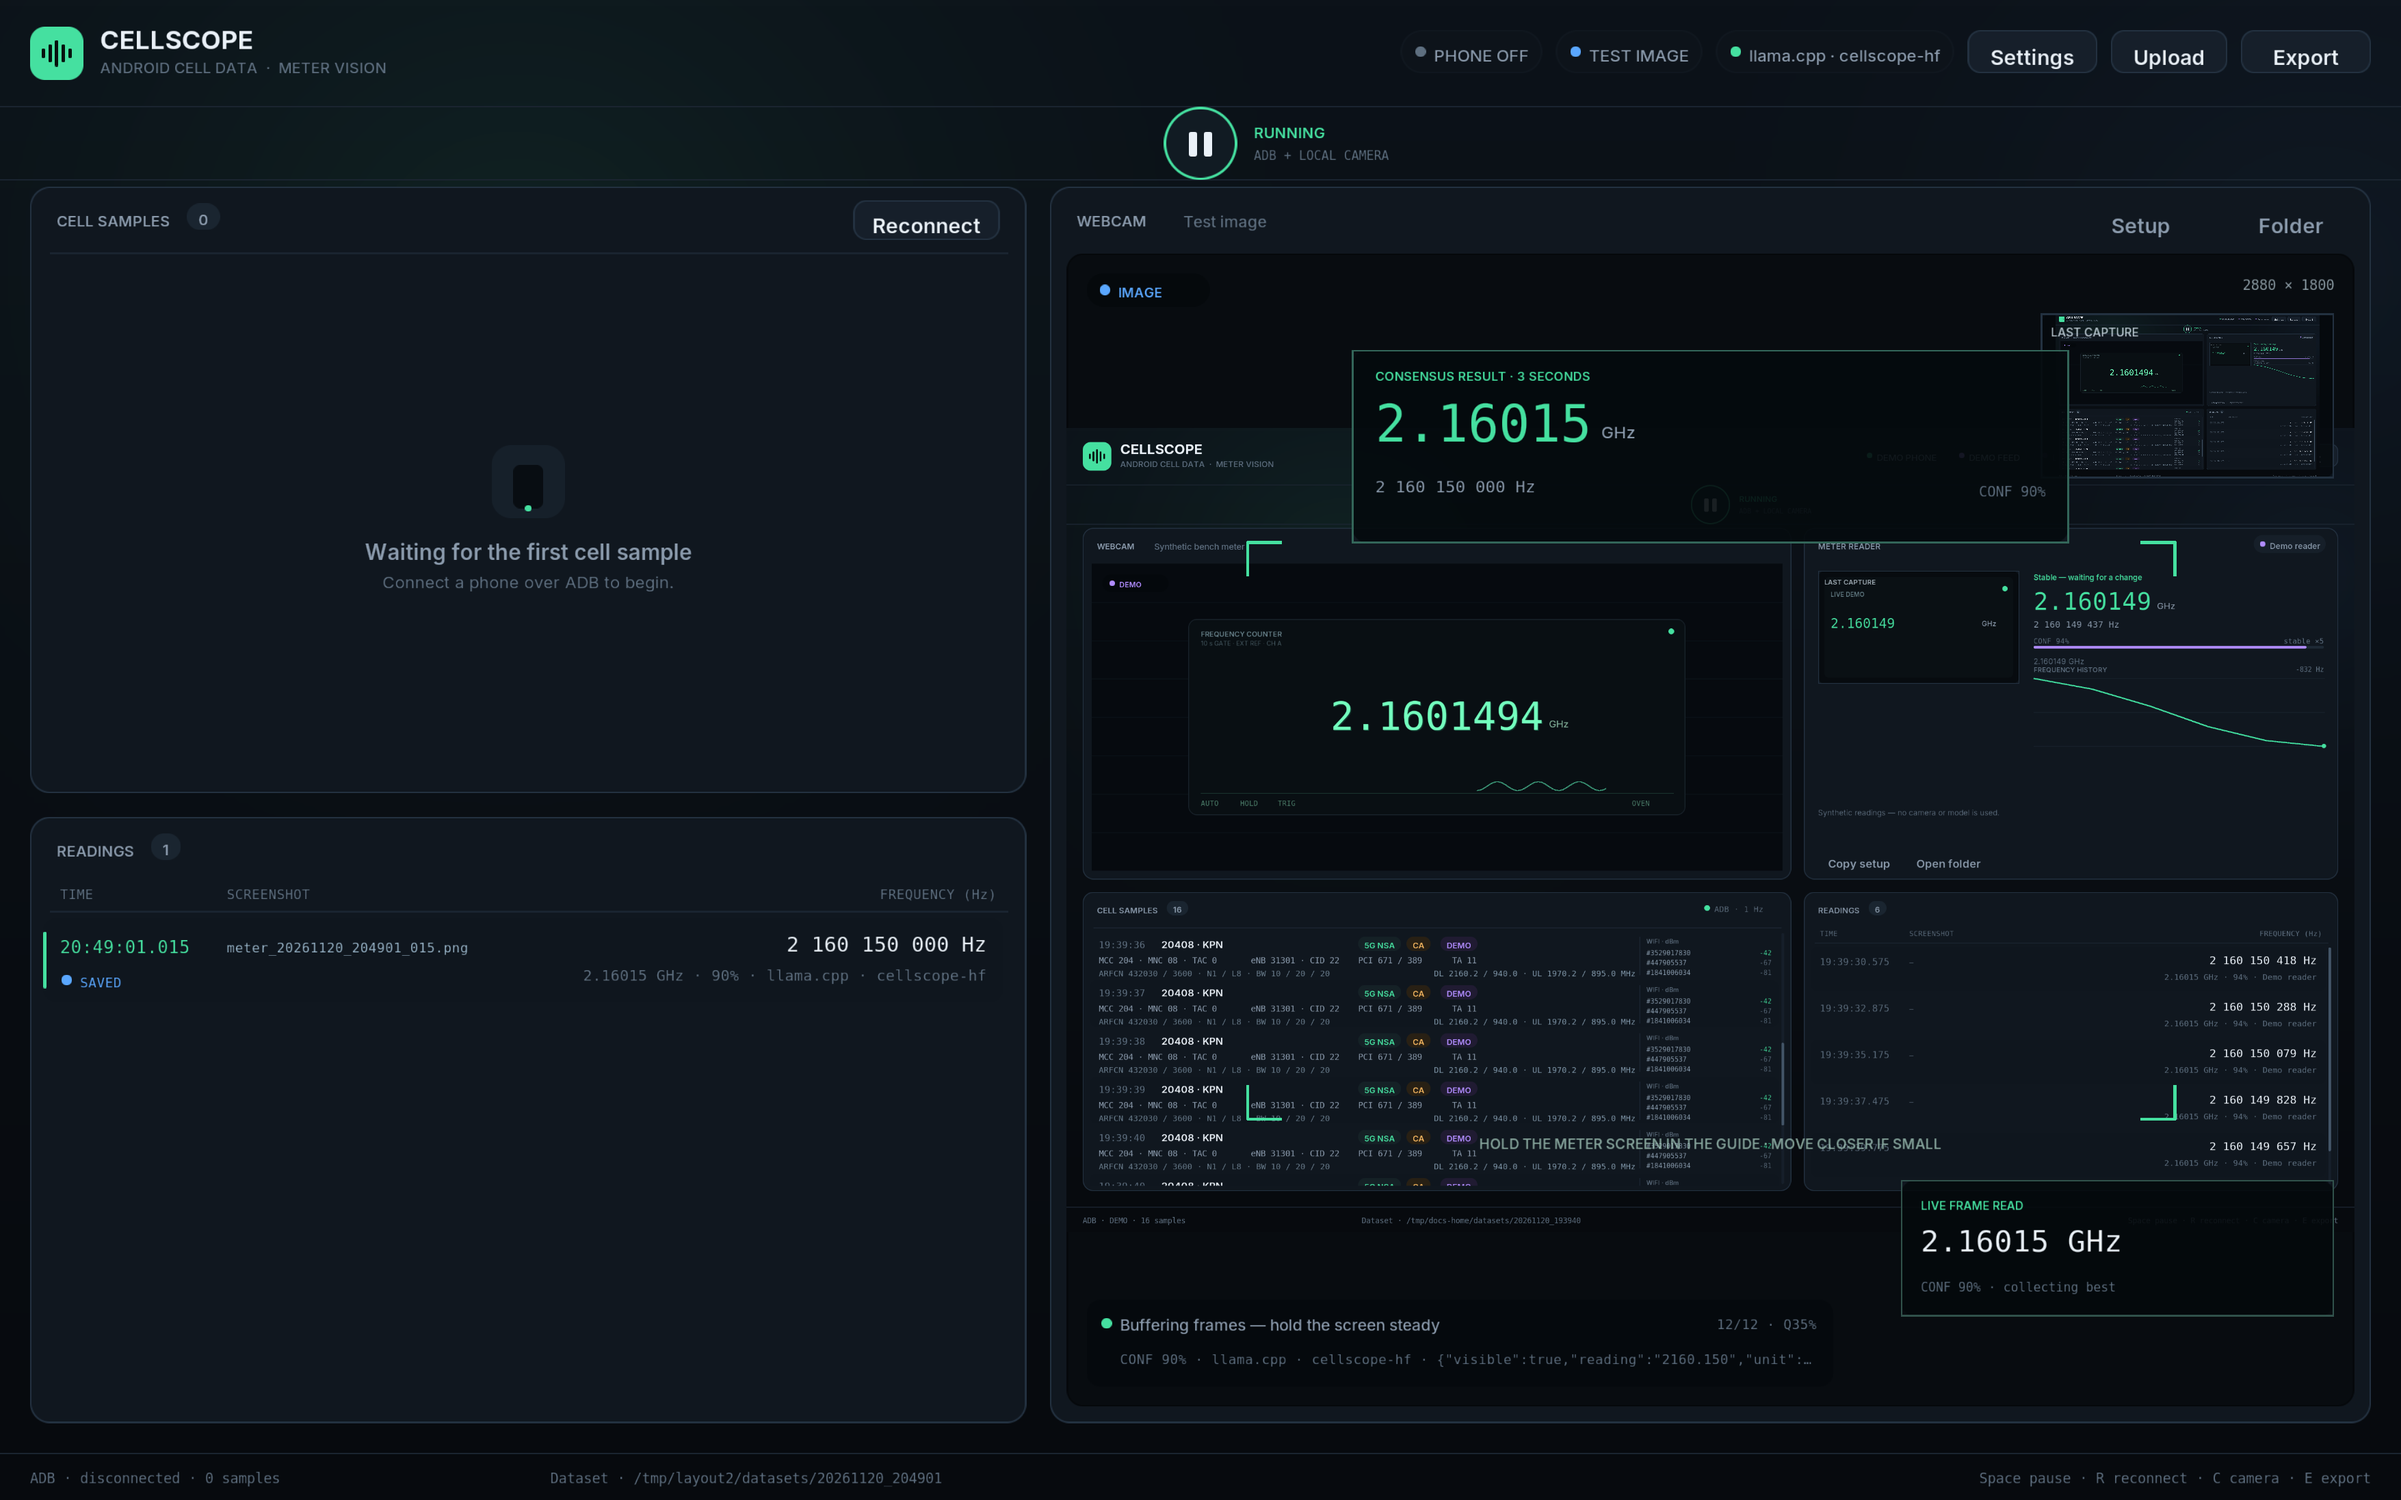
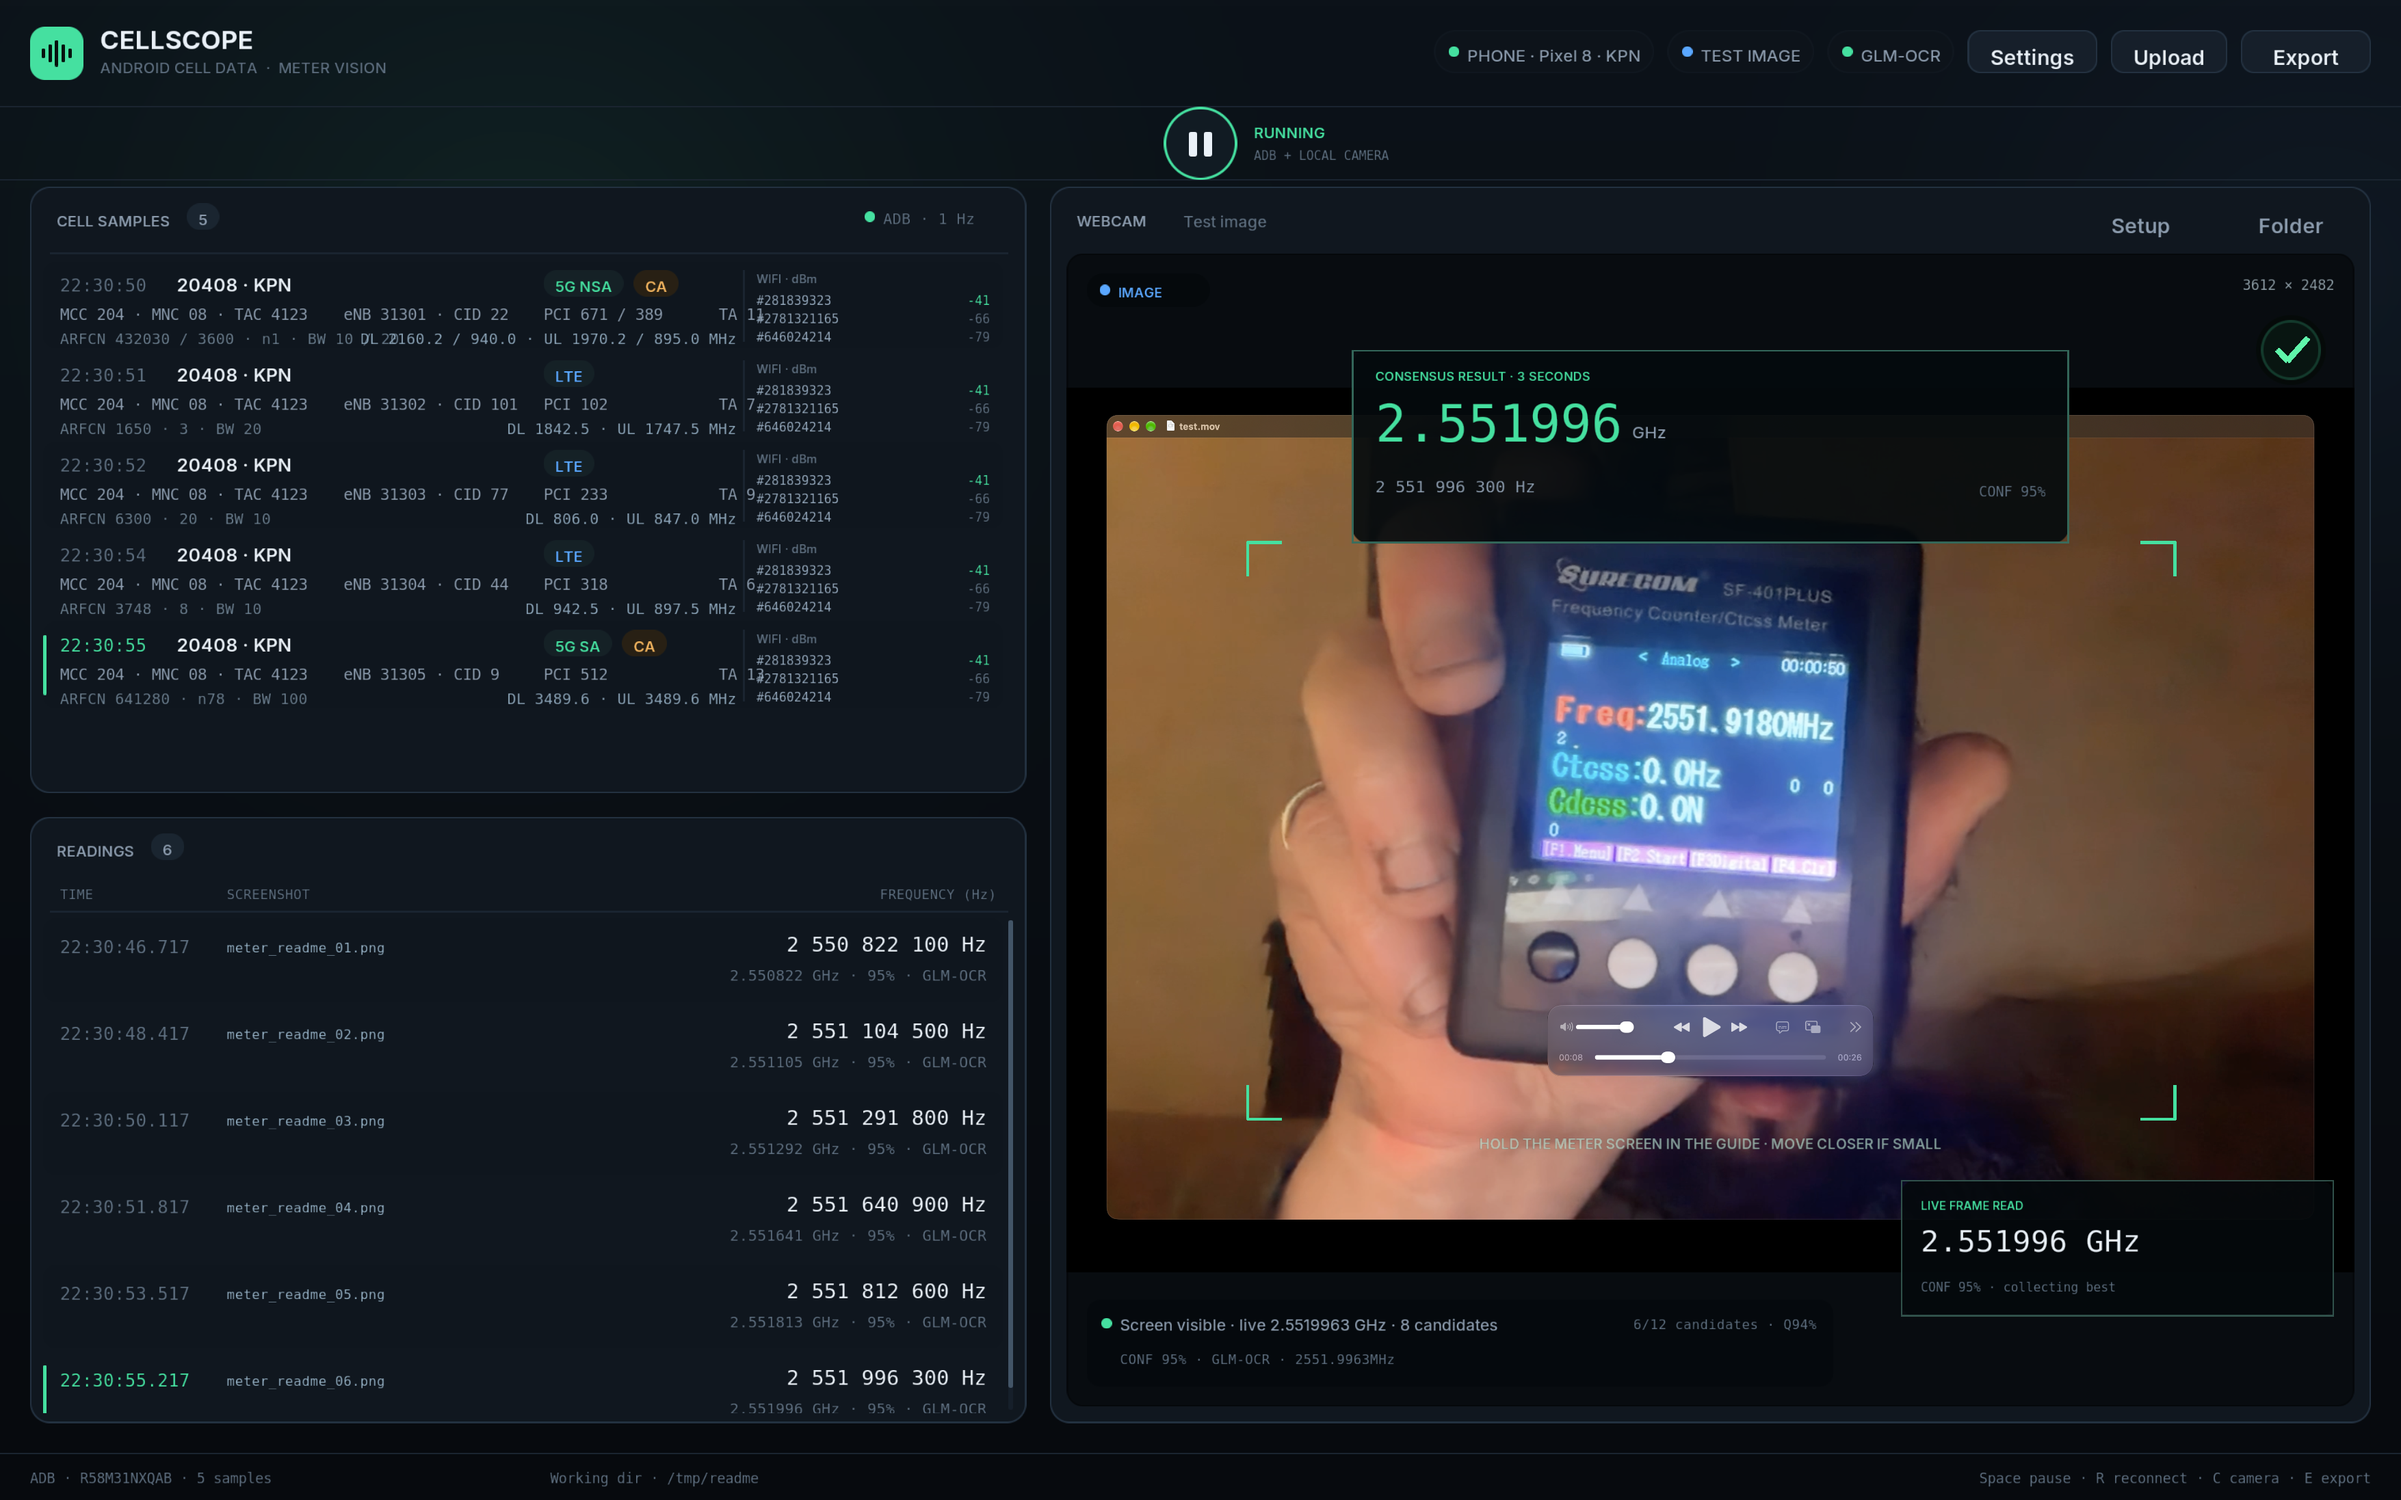
Render README screenshots from deterministic fixture
- add a README-only fixture mode with a connected Pixel 8 ADB state
- seed five cells covering n1, 3, 20, 8 and n78
- seed six meter readings from 2550.8221 to 2551.9963 MHz
- use example.png as the webcam image and keep UI overlays in the control layer
- regenerate main, live-reading, and best-result screenshots

diff --git a/src/app.c b/src/app.c
@@ -438,6 +438,7 @@ void app_print_usage(void)
         "  --demo                 Synthetic phone + synthetic meter feed (no hardware)\n"
         "  --autoplay             Start capture immediately (default: wait for play)\n"
         "  --demo-phone           Synthetic cell samples only\n"
+        "  --readme-fixture MODE  README screenshot fixture: main, live, best\n"
         "  --image PATH           Use a still image instead of a webcam (testing)\n"
         "  --export-json PATH     Write both lists to JSON and exit (testing/automation)\n"
         "  --download-model REPO  Download a Hugging Face VLM and make it the reader\n"
@@ -599,6 +600,12 @@ AppArgsResult app_parse_args(App *app, int argc, char **argv, char *err, size_t 
             app->demo_phone = true;
         } else if (strcmp(a, "--demo-phone") == 0) {
             app->demo_phone = true;
+        } else if (strcmp(a, "--readme-fixture") == 0 && i + 1 < argc) {
+            const char *mode = argv[++i];
+            app->readme_fixture = true;
+            app->readme_fixture_mode = strcmp(mode, "live") == 0 ? 2
+                                     : strcmp(mode, "best") == 0 ? 3
+                                                                 : 1;
         } else if (strcmp(a, "--autoplay") == 0) {
             app->autoplay = true;
         } else if (strcmp(a, "--no-modal") == 0) {
@@ -671,6 +678,15 @@ AppArgsResult app_parse_args(App *app, int argc, char **argv, char *err, size_t 
             return APP_ARGS_ERROR;
         }
         return APP_ARGS_OK;
+    }
+    if (app->readme_fixture) {
+        app->demo = false;
+        app->demo_phone = false;
+        app->image_mode = true;
+        app->no_modal = true;
+        app->no_runtime = true;
+        if (!app->image_path[0])
+            cs_strlcpy(app->image_path, "example.png", sizeof(app->image_path));
     }
     if (app->demo || app->demo_phone) {
         if (app->demo_phone && app->image_mode) app->image_mode = false;
@@ -812,6 +828,126 @@ void app_seed_demo(App *app)
     SDL_UnlockMutex(app->mu);
 }
 
+static void readme_fixture_seed(App *app)
+{
+    int64_t now = cs_epoch_ms();
+    struct CellFixture {
+        const char *band, *rat, *enb, *cid, *pci, *ta, *arfcn, *bw, *dl, *ul;
+        bool ca;
+    } cells[] = {
+        {"n1", "5G NSA", "31301", "22", "671 / 389", "11", "432030 / 3600",
+         "10 / 20", "2160.2 / 940.0", "1970.2 / 895.0", true},
+        {"3", "LTE", "31302", "101", "102", "7", "1650", "20", "1842.5",
+         "1747.5", false},
+        {"20", "LTE", "31303", "77", "233", "9", "6300", "10", "806.0", "847.0",
+         false},
+        {"8", "LTE", "31304", "44", "318", "6", "3748", "10", "942.5", "897.5",
+         false},
+        {"n78", "5G SA", "31305", "9", "512", "13", "641280", "100", "3489.6",
+         "3489.6", true},
+    };
+    static const double meters[] = {
+        2550.8221, 2551.1045, 2551.2918,
+        2551.6409, 2551.8126, 2551.9963,
+    };
+
+    SDL_LockMutex(app->mu);
+    app->adb.state = ADB_STATE_CONNECTED;
+    app->adb.attempted = true;
+    app->adb.device_count = 1;
+    cs_strlcpy(app->adb.serial, "R58M31NXQAB", sizeof(app->adb.serial));
+    cs_strlcpy(app->adb.model, "Pixel 8", sizeof(app->adb.model));
+    cs_strlcpy(app->adb.detail, "ADB · USB · authorized", sizeof(app->adb.detail));
+    app->adb.hint[0] = '\0';
+    app->adb.last_check_ms = now;
+    app->ever_connected = true;
+    app->modal_checking = false;
+    app->last_poll_ok_ms = cs_now_ms();
+    cs_strlcpy(app->device_label, "Pixel 8 · KPN", sizeof(app->device_label));
+
+    for (int i = 0; i < 5; i++) {
+        CellSample c;
+        memset(&c, 0, sizeof(c));
+        c.ts_ms = now - (int64_t)(4 - i) * 1200;
+        cs_strlcpy(c.plmn, "20408", sizeof(c.plmn));
+        cs_strlcpy(c.mcc, "204", sizeof(c.mcc));
+        cs_strlcpy(c.mnc, "08", sizeof(c.mnc));
+        cs_strlcpy(c.country, "Netherlands", sizeof(c.country));
+        cs_strlcpy(c.operator_name, "KPN", sizeof(c.operator_name));
+        cs_strlcpy(c.tac, "4123", sizeof(c.tac));
+        cs_strlcpy(c.rat, cells[i].rat, sizeof(c.rat));
+        cs_strlcpy(c.enb, cells[i].enb, sizeof(c.enb));
+        cs_strlcpy(c.cid, cells[i].cid, sizeof(c.cid));
+        cs_strlcpy(c.pci, cells[i].pci, sizeof(c.pci));
+        cs_strlcpy(c.ta, cells[i].ta, sizeof(c.ta));
+        cs_strlcpy(c.arfcn, cells[i].arfcn, sizeof(c.arfcn));
+        cs_strlcpy(c.band, cells[i].band, sizeof(c.band));
+        cs_strlcpy(c.bw, cells[i].bw, sizeof(c.bw));
+        c.ca = cells[i].ca;
+        cs_strlcpy(c.f_dl, cells[i].dl, sizeof(c.f_dl));
+        cs_strlcpy(c.f_ul, cells[i].ul, sizeof(c.f_ul));
+        WifiAp aps[3];
+        aps[0].id = wifi_anonymize("cellscope-readme-home", 0x52454144);
+        aps[0].rssi = -41;
+        aps[1].id = wifi_anonymize("cellscope-readme-neighbour", 0x52454144);
+        aps[1].rssi = -66;
+        aps[2].id = wifi_anonymize("cellscope-readme-cafe", 0x52454144);
+        aps[2].rssi = -79;
+        wifi_format(aps, 3, c.wifi, sizeof(c.wifi));
+        cs_strlcpy(c.source, "Pixel 8", sizeof(c.source));
+        cell_push_locked(app, &c);
+    }
+
+    for (int i = 0; i < (int)CS_ARRAY_LEN(meters); i++) {
+        MeterSample m;
+        memset(&m, 0, sizeof(m));
+        m.ts_ms = now - (int64_t)(CS_ARRAY_LEN(meters) - 1 - i) * 1700;
+        cs_format_time_ms(m.ts_ms, m.time_text, sizeof(m.time_text));
+        m.hz = (uint64_t)(meters[i] * 1e6 + 0.5);
+        m.confidence = 0.95;
+        snprintf(m.raw, sizeof(m.raw), "%.4fMHz", meters[i]);
+        cs_strlcpy(m.backend, "GLM-OCR", sizeof(m.backend));
+        snprintf(m.shot_name, sizeof(m.shot_name), "meter_readme_%02d.png", i + 1);
+        meter_push_locked(app, &m);
+    }
+
+    double latest = meters[CS_ARRAY_LEN(meters) - 1];
+    app->reader.screen_visible = app->readme_fixture_mode == 3 ? false : true;
+    app->reader.visible = app->readme_fixture_mode == 2 ? false : true;
+    app->reader.live_valid = app->readme_fixture_mode != 3;
+    app->reader.hz = latest * 1e6;
+    app->reader.confidence = 0.95;
+    app->reader.live_hz = latest * 1e6;
+    app->reader.live_confidence = 0.95;
+    app->reader.live_ms = now;
+    app->reader.display_until_ms = app->reader.visible ? now + 300000 : 0;
+    app->reader.burst_count = 6;
+    app->reader.best_score = 0.94f;
+    app->reader.frame_w = 1620;
+    app->reader.frame_h = 1080;
+    app->reader.last_ok_ms = now;
+    app->reader.attempts = 6;
+    app->reader.accepted = 6;
+    app->reader.kind = VLM_BACKEND_LLAMA;
+    app->reader.is_vlm = true;
+    cs_strlcpy(app->reader.backend, "GLM-OCR", sizeof(app->reader.backend));
+    cs_strlcpy(app->reader.detail, "zai-org/GLM-OCR · fixture", sizeof(app->reader.detail));
+    cs_strlcpy(app->reader.raw, "2551.9963MHz", sizeof(app->reader.raw));
+    cs_strlcpy(app->reader.live_raw, "2551.9963MHz", sizeof(app->reader.live_raw));
+    if (app->readme_fixture_mode == 2)
+        cs_strlcpy(app->reader.status, "Screen visible · live 2.5519963 GHz",
+                   sizeof(app->reader.status));
+    else if (app->readme_fixture_mode == 3)
+        cs_strlcpy(app->reader.status, "Screen left · consensus recorded",
+                   sizeof(app->reader.status));
+    else
+        cs_strlcpy(app->reader.status, "Screen visible · live 2.5519963 GHz · 8 candidates",
+                   sizeof(app->reader.status));
+    app->cell_follow = true;
+    app->meter_follow = true;
+    SDL_UnlockMutex(app->mu);
+}
+
 bool app_init(App *app, SDL_Window *win, SDL_Renderer *ren, char *err, size_t err_cap)
 {
     app->win = win;
@@ -886,12 +1022,14 @@ bool app_init(App *app, SDL_Window *win, SDL_Renderer *ren, char *err, size_t er
         }
     }
 
-    adb_find(app->adb_override, app->adb_path, sizeof(app->adb_path));
-    if (!app->adb_path[0]) {
-        adb_check(NULL, &app->adb);
-        app->adb.attempted = false;
-        app->adb.last_check_ms = 0;
-        app->adb.busy = false;
+    if (!app->readme_fixture) {
+        adb_find(app->adb_override, app->adb_path, sizeof(app->adb_path));
+        if (!app->adb_path[0]) {
+            adb_check(NULL, &app->adb);
+            app->adb.attempted = false;
+            app->adb.last_check_ms = 0;
+            app->adb.busy = false;
+        }
     }
 
     vlm_config_init(&app->vlm, app->vlm_mode, app->vlm_url, app->vlm_model);
@@ -919,6 +1057,7 @@ bool app_init(App *app, SDL_Window *win, SDL_Renderer *ren, char *err, size_t er
     app->modal_open = !app->no_modal && !app->demo && !app->image_mode;
     app->tracker = (MeterTracker){0};
     meter_tracker_init(&app->tracker);
+    if (app->readme_fixture) readme_fixture_seed(app);
     if (app->paused) {
         SDL_LockMutex(app->mu);
         cs_strlcpy(app->reader.status, "Press play to begin capture",
@@ -941,7 +1080,7 @@ bool app_init(App *app, SDL_Window *win, SDL_Renderer *ren, char *err, size_t er
         SDL_UnlockMutex(app->mu);
     }
     if (app->demo && !app->paused) app_seed_demo(app);
-    if (!app->paused) {
+    if (!app->paused && !app->readme_fixture) {
         SDL_LockMutex(app->mu);
         bool session_ok = session_begin_locked(app);
         SDL_UnlockMutex(app->mu);
@@ -954,16 +1093,19 @@ bool app_init(App *app, SDL_Window *win, SDL_Renderer *ren, char *err, size_t er
         SDL_SetAtomicInt(&app->quit, 1);
     }
 
-    if (app->auto_connect && !app->demo) app->want_check = true;
+    if (app->auto_connect && !app->demo && !app->readme_fixture) app->want_check = true;
 
-    app->adb_thread = SDL_CreateThread(cellscope_adb_thread, "adb-poller", app);
-    app->vlm_thread = SDL_CreateThread(cellscope_vlm_thread, "vlm-reader", app);
-    if (app->runtime_enabled) {
-        app->bootstrap_thread =
-            SDL_CreateThread(cellscope_bootstrap_thread, "py-runtime", app);
+    if (!app->readme_fixture) {
+        app->adb_thread = SDL_CreateThread(cellscope_adb_thread, "adb-poller", app);
+        app->vlm_thread = SDL_CreateThread(cellscope_vlm_thread, "vlm-reader", app);
+        if (app->runtime_enabled) {
+            app->bootstrap_thread =
+                SDL_CreateThread(cellscope_bootstrap_thread, "py-runtime", app);
+        }
     }
-    if (!app->adb_thread || !app->vlm_thread ||
-        (app->runtime_enabled && !app->bootstrap_thread)) {
+    if (!app->readme_fixture &&
+        (!app->adb_thread || !app->vlm_thread ||
+         (app->runtime_enabled && !app->bootstrap_thread))) {
         snprintf(err, err_cap, "Could not create worker threads");
         return false;
     }
@@ -1100,6 +1242,7 @@ bool app_retry_camera(App *app, bool notify)
 
 void app_update(App *app)
 {
+    if (app->readme_fixture) return;
     int64_t now = cs_now_ms();
     bool export_pending = false;
     int export_result = 0;

diff --git a/src/app.h b/src/app.h
@@ -122,6 +122,8 @@ typedef struct App {
     TrainConfig train;
     bool demo;
     bool demo_phone;
+    bool readme_fixture;
+    int readme_fixture_mode;
     bool autoplay;
     bool no_modal;
     bool image_mode;

diff --git a/README.md b/README.md
@@ -35,7 +35,7 @@ chat template and `Text Recognition:` prompt. No
 telemetry, no cloud inference, and no images are uploaded. The one-time runtime/model downloads come from uv's GitHub
 releases, ModelScope, and Hugging Face if you download an HF model.
 
-![CellScope demo](docs/screenshot-main.png)
+![CellScope with simulated connected phone data and GLM-OCR meter reading](docs/screenshot-main.png)
 
 ## Stack
 
